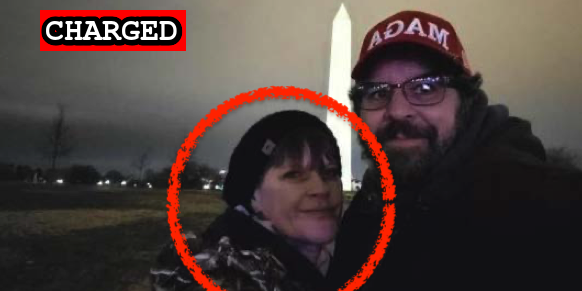
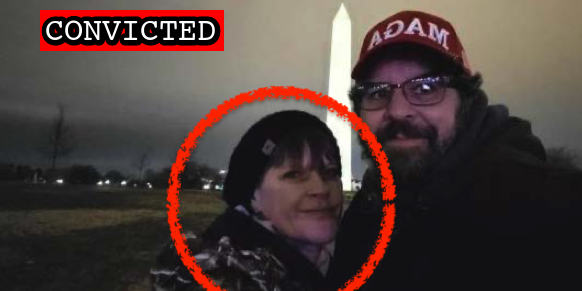
Latest import

Changed region(s): [[0.0619, 0.0309, 0.4021, 0.1856]]

diff --git a/docs/_suspects/christy-clark.md b/docs/_suspects/christy-clark.md
@@ -4,15 +4,17 @@ lastName: Clark
 hashtag: ChristyClark
 aka:
 residence: Pennsylvania
-status: Charged
+status: Convicted
 date: 2021-02-12
 charged: 2021-02-12
 indicted:
-convicted: 
+convicted: 2021-05-31
+acquitted:
 sentenced: 
 dismissed: 
 deceased:
-plea_hearing:
+plea_hearing: 2021-05-31
+trial_date:
 sentencing:
 age:
 occupation:
@@ -34,9 +36,15 @@ published: true
 caseNumber: 1:21-cr-218
 videos:
 charges:
+- code: 40 USC § 5104(e)(2)(G)
+  title: Parading, demonstrating or picketing in a Capitol building
+  url: https://www.law.cornell.edu/uscode/text/40/5104
+  felony: false
 sentence:
 ---
 - [News Report](https://www.abc27.com/news/top-stories/three-mifflin-county-residents-charged-in-u-s-capitol-riot/)
 - [Statement of Facts](https://www.justice.gov/usao-dc/case-multi-defendant/file/1371321/download)
 - [DOJ Press Release](https://www.justice.gov/usao-dc/case-multi-defendant/file/1377831/download)
 - [Information](https://www.justice.gov/usao-dc/case-multi-defendant/file/1377831/download)
+- [Plea Agreement](https://www.justice.gov/usao-dc/case-multi-defendant/file/1510106/download)
+- [Statement of Offense](https://www.justice.gov/usao-dc/case-multi-defendant/file/1510111/download)
